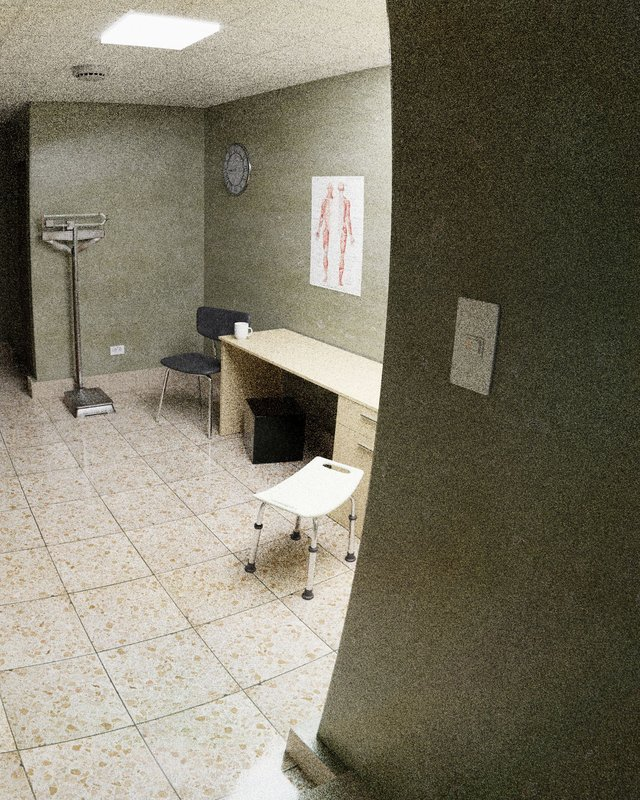
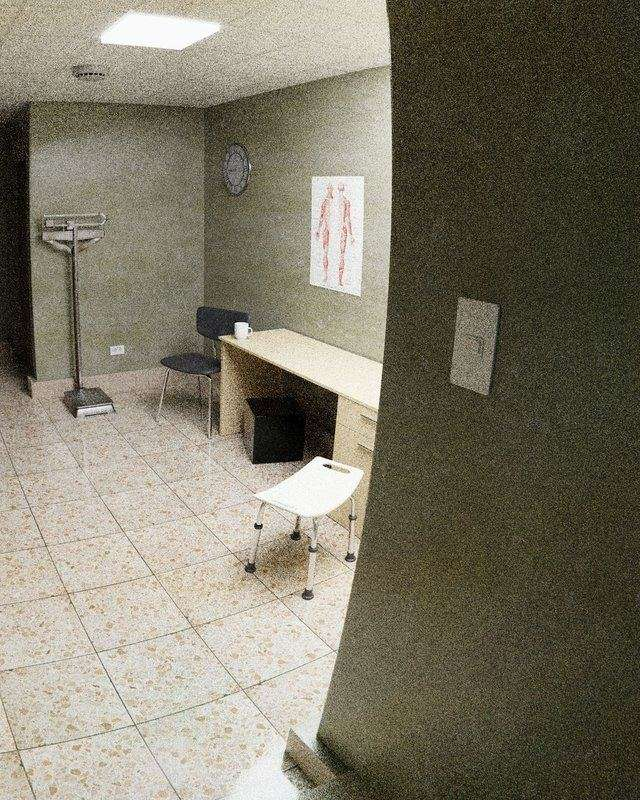
Polish PediaMED sample from second-model review
Honest stock captions, drop the repeated visit photo, gate GSAP
like Cafe 408, underline footer links, and serve JPEG-only for the
grainy consult crop.

diff --git a/src/components/demos/pediamed/PediamedExperience.tsx b/src/components/demos/pediamed/PediamedExperience.tsx
@@ -45,11 +45,13 @@ function Shot({
   const oneX = `${pediamed.asset}/${item.file1x}`;
   return (
     <picture>
-      <source
-        type="image/webp"
-        srcSet={`${oneX}.webp 640w, ${base}.webp 1280w`}
-        sizes={SHOT_SIZES}
-      />
+      {item.webp ? (
+        <source
+          type="image/webp"
+          srcSet={`${oneX}.webp 640w, ${base}.webp 1280w`}
+          sizes={SHOT_SIZES}
+        />
+      ) : null}
       <img
         src={`${oneX}.jpg`}
         srcSet={`${oneX}.jpg 640w, ${base}.jpg 1280w`}
@@ -79,55 +81,61 @@ export function PediamedExperience() {
     const ctx = gsap.context(() => {
       const mm = gsap.matchMedia();
 
+      if (!animate) return;
+
       const playOpener = () => {
-        if (cancelled || !animate) return;
-        const fill = root.querySelector<HTMLElement>(".pm-name-fill");
-        const rise = gsap.utils.toArray<HTMLElement>(
-          ".pm-opener-eyebrow, .pm-opener-copy, .pm-opener-btns a, .pm-shot-frame",
-          root,
-        );
-        if (!fill) return;
+        if (cancelled) return;
+        ctx.add(() => {
+          const fill = root.querySelector<HTMLElement>(".pm-name-fill");
+          const rise = gsap.utils.toArray<HTMLElement>(
+            ".pm-opener-eyebrow, .pm-opener-copy, .pm-opener-btns a, .pm-rooms .pm-shot-frame",
+            root,
+          );
+          if (!fill) return;
 
-        gsap.set(fill, { clipPath: "inset(100% 0 0 0)" });
-        gsap.set(rise, { opacity: 0, y: 12 });
+          gsap.set(fill, { clipPath: "inset(100% 0 0 0)" });
+          gsap.set(rise, { opacity: 0, y: 12 });
 
-        const tl = gsap.timeline({
-          defaults: { ease: "power2.out" },
-          onComplete: () => {
-            document.documentElement.classList.remove("js-anim");
-          },
+          const tl = gsap.timeline({
+            defaults: { ease: "power2.out" },
+            onComplete: () => {
+              document.documentElement.classList.remove("js-anim");
+            },
+          });
+          tl.to(
+            fill,
+            { clipPath: "inset(0% 0 0 0)", duration: 0.9 },
+            0,
+          );
+          tl.to(
+            rise,
+            { opacity: 1, y: 0, duration: 0.45, stagger: 0.08 },
+            0.35,
+          );
         });
-        tl.to(
-          fill,
-          { clipPath: "inset(0% 0 0 0)", duration: 0.9 },
-          0,
-        );
-        tl.to(
-          rise,
-          { opacity: 1, y: 0, duration: 0.45, stagger: 0.08 },
-          0.35,
-        );
       };
 
       void waitForOpenerAutoplay(120).then(playOpener);
 
       mm.add("(prefers-reduced-motion: no-preference)", () => {
-        root.querySelectorAll<HTMLElement>(".pm-shot-frame img").forEach((img) => {
-          gsap.fromTo(
-            img,
-            { scale: 1.06 },
-            {
-              scale: 1,
-              ease: "none",
-              scrollTrigger: {
-                trigger: img.closest(".pm-shot-frame") ?? img,
-                start: "top bottom",
-                end: "center center",
-                scrub: true,
+        root
+          .querySelectorAll<HTMLElement>(".pm-rooms .pm-shot-frame img")
+          .forEach((img) => {
+            gsap.fromTo(
+              img,
+              { scale: 1.06 },
+              {
+                scale: 1,
+                ease: "none",
+                scrollTrigger: {
+                  trigger: img.closest(".pm-shot-frame") ?? img,
+                  start: "top bottom",
+                  end: "center center",
+                  scrub: true,
+                },
               },
-            },
-          );
-        });
+            );
+          });
 
         gsap.utils.toArray<HTMLElement>(".pm-reveal").forEach((el) => {
           gsap.fromTo(
@@ -151,8 +159,6 @@ export function PediamedExperience() {
       ctx.revert();
     };
   }, []);
-
-  const play = PEDIAMED_SHOTS[1];
 
   return (
     <div className="pm" ref={rootRef}>
@@ -191,7 +197,7 @@ export function PediamedExperience() {
           </div>
         </section>
 
-        <section className="pm-wrap pm-rooms" aria-label="Clinic interiors">
+        <section className="pm-wrap pm-rooms" aria-label="Stock interiors">
           <div className="pm-rooms-grid">
             {PEDIAMED_SHOTS.map((item, i) => (
               <figure className="pm-shot" key={item.file}>
@@ -215,12 +221,6 @@ export function PediamedExperience() {
             </div>
           </div>
           <div className="pm-visit-split">
-            <figure className="pm-visit-photo">
-              <div className="pm-shot-frame">
-                <Shot item={play} />
-              </div>
-              <figcaption className="pm-cap">{play.caption}</figcaption>
-            </figure>
             <div className="pm-visit-info">
               <div className="pm-visit-block">
                 <p className="pm-eyebrow">ADDRESS</p>
@@ -232,8 +232,11 @@ export function PediamedExperience() {
               </div>
               <div className="pm-visit-block">
                 <p className="pm-eyebrow">
-                  HOURS
-                  <span className="pm-confirm">{pediamed.hoursConfirm}</span>
+                  HOURS{" "}
+                  <span className="pm-confirm">
+                    {pediamed.hoursConfirm}
+                    <span className="pm-sr"> hours from Google Maps</span>
+                  </span>
                 </p>
                 {pediamed.hours.map((row) => (
                   <div className="pm-hours-row" key={row.days}>

diff --git a/src/lib/pediamed.ts b/src/lib/pediamed.ts
@@ -1,4 +1,4 @@
-import { DEMO_DISCLAIMER, KANTOCO_MESSENGER } from "@/lib/demos";
+import { KANTOCO_MESSENGER } from "@/lib/demos";
 
 export const PEDIAMED_ASSET = "/demos/pediamed";
 
@@ -21,8 +21,7 @@ export const pediamed = {
   messenger: "https://m.me/PediaMedPH",
   messageLabel: "Message on Facebook",
   directions:
-    "https://www.google.com/maps/dir/?api=1&destination=14.4484969,121.0285809&destination_place_id=ChIJW_qmPgnPlzMR6OjPM2uvB8o",
-  mapsPin: "https://maps.google.com/?cid=14557797195464042728",
+    "https://www.google.com/maps/dir/?api=1&destination=PediaMED+Children%27s+Clinic%2C+Lot+5+Block+39+J.+Elizalde%2C+BF+Homes%2C+Para%C3%B1aque&destination_place_id=ChIJW_qmPgnPlzMR6OjPM2uvB8o",
   directionsLabel: "Get directions",
   hours: [
     { days: "Mon–Sat", time: "10\u00A0am – 5\u00A0pm" },
@@ -33,9 +32,8 @@ export const pediamed = {
   sampleNote:
     "A KantoCo sample for PediaMED Children's Clinic. Not live, and not the clinic's official site.",
   credit:
-    "Interiors: consult-corner, Yusuf P (Pexels); play-area, Hakim Santoso (Pexels). Hours: Google Maps.",
+    "Stock interiors, not PediaMED's: consult-corner, Yusuf P (Pexels); play-area, Hakim Santoso (Pexels). Hours: Google Maps.",
   madeBy: "Made by KantoCo · m.me/kantocoph",
-  disclaimer: DEMO_DISCLAIMER,
   kantocoMessenger: KANTOCO_MESSENGER,
   asset: PEDIAMED_ASSET,
 } as const;
@@ -44,17 +42,19 @@ export const PEDIAMED_SHOTS = [
   {
     file: "consult-corner-4x5",
     file1x: "consult-corner-4x5-1x",
-    caption: "Consult corner. Photo: Yusuf P, Pexels.",
-    alt: "Empty exam room with a scale, desk, and two chairs. No people.",
+    caption: "Stock consult room, not PediaMED. Photo: Yusuf P, Pexels.",
+    alt: "Empty exam room with a scale, a desk, and two chairs.",
     width: 1280,
     height: 1600,
+    webp: false,
   },
   {
     file: "play-area-4x5",
     file1x: "play-area-4x5-1x",
-    caption: "Play area. Photo: Hakim Santoso, Pexels.",
-    alt: "Empty play corner with a wooden train set on a grey rug. No people.",
+    caption: "Stock play corner, not PediaMED. Photo: Hakim Santoso, Pexels.",
+    alt: "Empty play corner with a wooden train set on a grey rug.",
     width: 1280,
-    height: 1600,
+    height: 1599,
+    webp: true,
   },
 ] as const;

diff --git a/src/app/demos/pediamed/pediamed.css b/src/app/demos/pediamed/pediamed.css
@@ -179,7 +179,7 @@ html.js-anim .pm-name-fill {
 html.js-anim .pm-opener-eyebrow,
 html.js-anim .pm-opener-copy,
 html.js-anim .pm-opener-btns a,
-html.js-anim .pm-shot-frame {
+html.js-anim .pm-rooms .pm-shot-frame {
   opacity: 0;
 }
 
@@ -304,13 +304,8 @@ html.js-anim .pm-shot-frame img {
   align-items: start;
 }
 
-.pm-visit-photo {
-  grid-column: 1 / 7;
-  margin: 0;
-}
-
 .pm-visit-info {
-  grid-column: 8 / 13;
+  grid-column: 1 / 8;
 }
 
 .pm-visit-block + .pm-visit-block {
@@ -350,6 +345,7 @@ html.js-anim .pm-shot-frame img {
 }
 
 .pm-confirm {
+  position: relative;
   display: inline-flex;
   align-items: center;
   justify-content: center;
@@ -393,13 +389,25 @@ html.js-anim .pm-shot-frame img {
   align-items: center;
   min-height: 44px;
   min-width: 44px;
-  text-decoration: none;
-}
-
-.pm-foot a:hover {
   text-decoration: underline;
   text-underline-offset: 3px;
   text-decoration-color: var(--accent);
+}
+
+.pm-foot a:hover {
+  color: var(--type);
+}
+
+.pm-sr {
+  position: absolute;
+  width: 1px;
+  height: 1px;
+  padding: 0;
+  margin: -1px;
+  overflow: hidden;
+  clip: rect(0, 0, 0, 0);
+  white-space: nowrap;
+  border: 0;
 }
 
 html.js-anim .pm-reveal {
@@ -412,7 +420,7 @@ html.js-anim .pm-reveal {
   }
 
   .pm-visit-info {
-    grid-column: 7 / 13;
+    grid-column: 1 / 8;
   }
 }
 
@@ -456,10 +464,6 @@ html.js-anim .pm-reveal {
 
   .pm-visit-btns {
     margin-top: 28px;
-  }
-
-  .pm-visit-photo {
-    margin-top: 48px;
   }
 
   .pm-visit-info {
